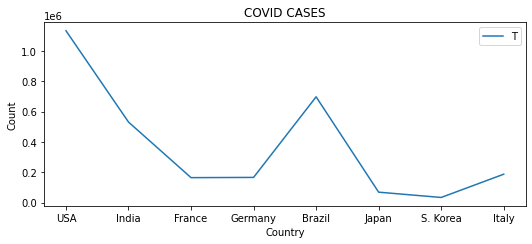
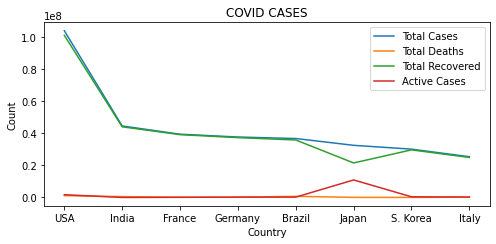
Added multiple line plots

diff --git a/Assignment_1/Source_code/Line_Chart_Data_Visualization.py b/Assignment_1/Source_code/Line_Chart_Data_Visualization.py
@@ -1,24 +1,31 @@
 import pandas as pd
 import matplotlib.pyplot as plt
-import numpy as np
 
-def ReadCSVData():
-    import pandas as pd
+def ReadData():
     return pd.read_excel('D:/WorkSpace/Applied_Data_Science/Assignment_1/Data_sets/covid_worldwide.xlsx',nrows=8)
     
 ''' Function definition'''
-def LicenCHart(): 
-   df = ReadCSVData()
-   x_axis= df['Country']
-   y_axis=df['Total Deaths'].astype(int)
-   plt.plot(x_axis,y_axis);
+def MultiplePlot(): 
+    
+   '''Get data'''
+   data = ReadData()
+   
+   ''' X axis Data '''
+   x_axis = data['Country'] 
+   
+   y_axis  = data['Total Cases']
+   y_axis1 = data['Total Deaths']
+   y_axis2 = data['Total Recovered']
+   y_axis3 = data['Active Cases']
+   
+   plt.plot(x_axis,y_axis,x_axis,y_axis1,x_axis,y_axis2,x_axis,y_axis3);
+   
    plt.ylabel("Count")
    plt.xlabel('Country')
    plt.title("COVID CASES")
-   plt.legend("Total Deaths")
-   ''' plt.set_ylim(100000,999999999,100000)'''
+   plt.legend(["Total Cases","Total Deaths","Total Recovered","Active Cases"])
    plt.show()
    return 
 
 '''Function calling'''
-LicenCHart()
+MultiplePlot()
